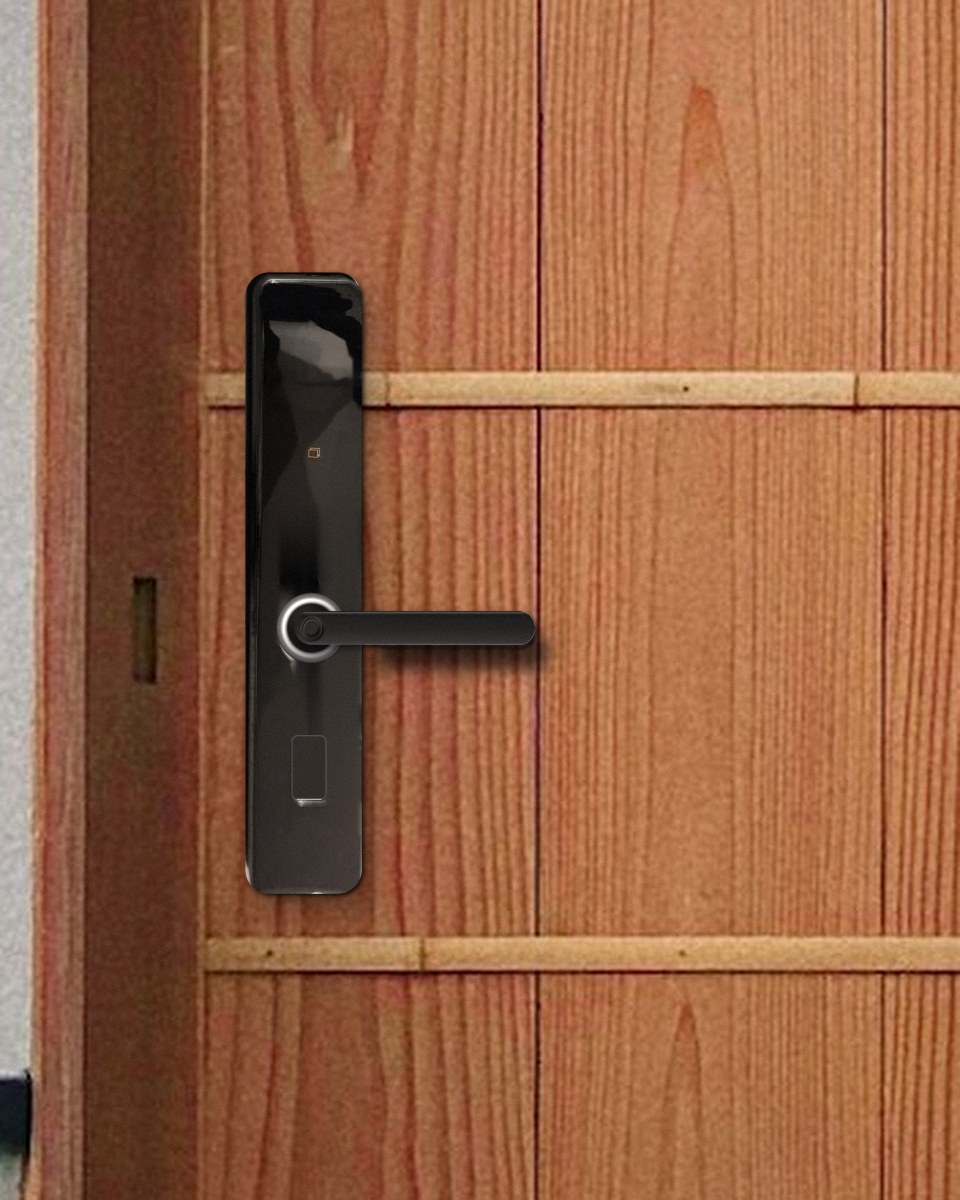
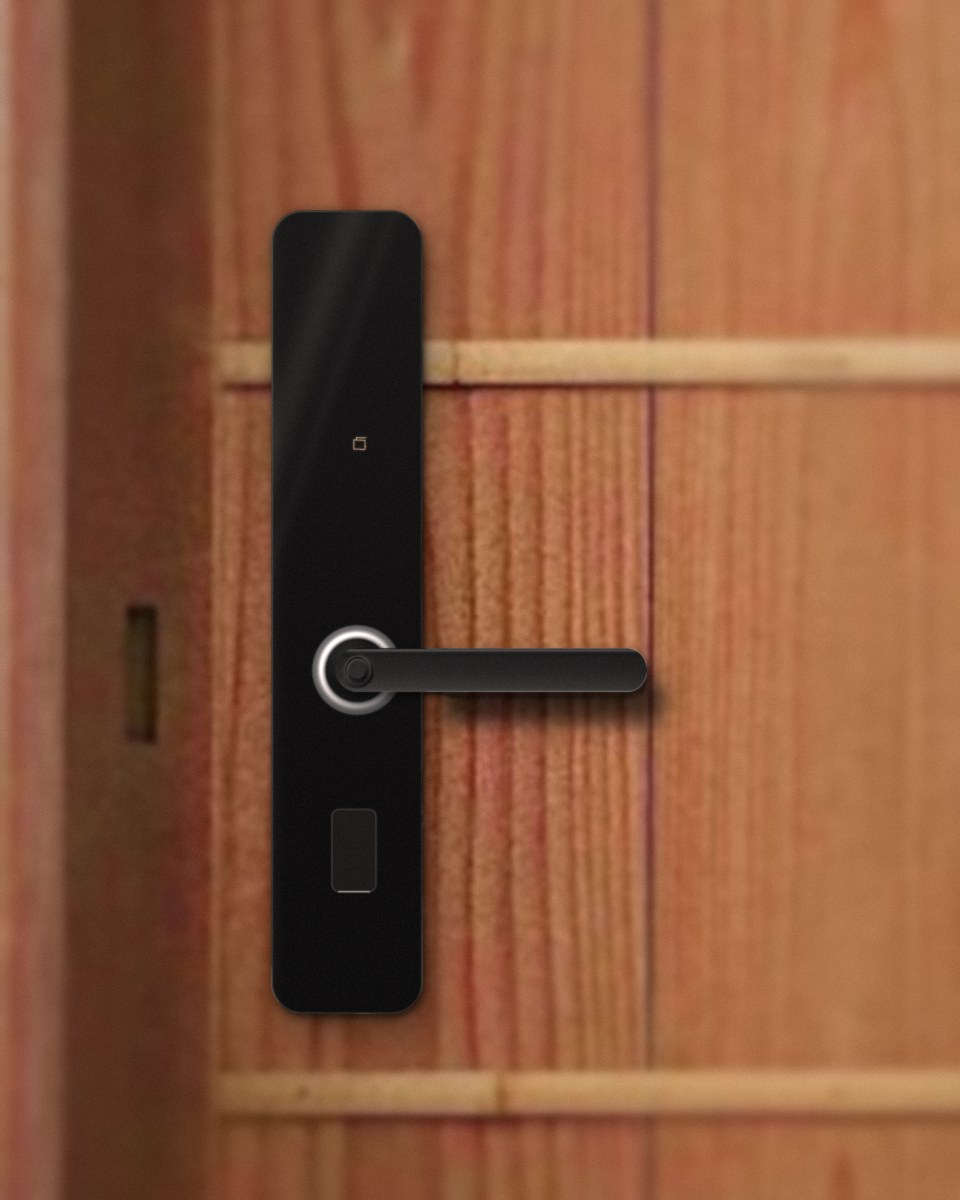
Bolts illustration back; clean glass and tighter close-up of the lock

diff --git a/index.html b/index.html
@@ -157,7 +157,7 @@
     .hero{padding-top:32px}
     .hero-grid,.split,.book{grid-template-columns:1fr;gap:32px}
     .hero-img{order:-1;max-width:420px;justify-self:start}
-    .badge{left:12px}
+    .badge{position:static;display:inline-block;margin-top:12px}
     .strip ul{grid-template-columns:1fr 1fr}
     .ways,.steps{grid-template-columns:1fr 1fr}
     .aud,.plans{grid-template-columns:1fr}
@@ -282,7 +282,7 @@
 <!-- BUILT SOLID -->
 <section style="padding-top:0">
   <div class="wrap split">
-    <img src="assets/photo-bolts.jpg" alt="Edge of the door showing the lock's stainless faceplate, latch and four steel bolts extended" width="800" height="1000" loading="lazy">
+    <img src="assets/lock-bolts.svg" alt="Illustration of the door edge showing the lock's latch and four steel bolts" width="800" height="1000" loading="lazy">
     <div>
       <h2><span class="en">Built like a proper front-door lock.</span><span class="zh">真正的入户门锁品质。</span></h2>
       <p class="sub"><span class="en">This isn't a stick-on gadget. It's a full mortise lock that replaces your old handle and deadbolt.</span><span class="zh">这不是贴在门上的小配件，而是完整的插芯门锁，替换原有的把手和门栓。</span></p>

diff --git a/README.md b/README.md
@@ -4,7 +4,7 @@ A one-page bilingual (English / 简体中文) site for GitHub Pages.
 
 ## Files
 - `index.html` — the whole site (styles and script included)
-- `assets/` — lock photos (your lock, cleaned up and placed on a door; door background by Korie Cull on Unsplash), the earlier SVG illustrations, and the social share image
+- `assets/` — lock-on-door photos (your lock, cleaned up and placed on a door; door background by Korie Cull on Unsplash), SVG illustrations, and the social share image
 
 ## Before publishing
 Open `index.html`, scroll to the bottom and fill in `CONFIG`:
